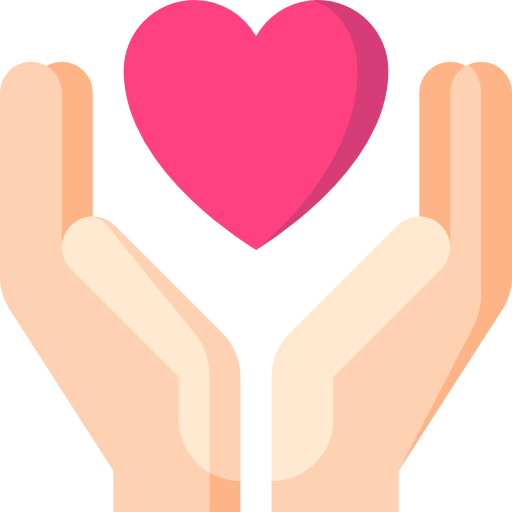
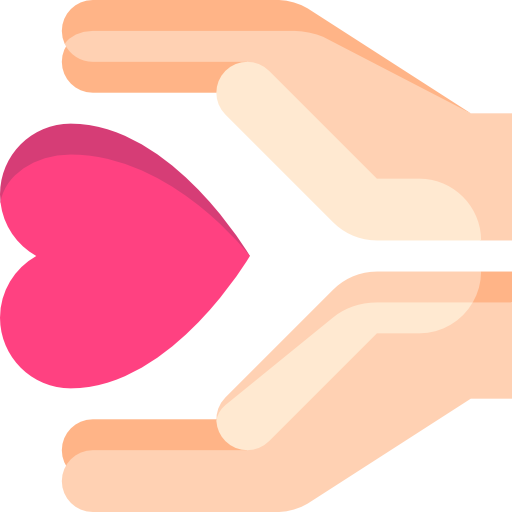
E03: added winning image in proper position, added rat movement towards the heart in the hands and changed winning text

diff --git a/exercices/exercise3.2/js/script.js b/exercices/exercise3.2/js/script.js
@@ -15,6 +15,12 @@ var targetX;
 var targetY;
 var targetImage;
 
+// velocity and size of the rat we're searching for after it is found
+var vX;
+var vY;
+var ratSize;
+
+
 //the surprise image at the end ;)
 var winningImage;
 
@@ -65,6 +71,8 @@ function setup() {
   createCanvas(windowWidth,windowHeight);
   background("#a8ad9a");
   imageMode(CENTER);
+  //ratSize is 72
+  ratSize=72;
 
   // Use a for loop to draw as many decoys as we need
   for (var i = 0; i < numDecoys; i++) {
@@ -134,22 +142,34 @@ function draw() {
   if (gameOver) {
     //clear background and redraw rat
     background('#a8ad9a');
-    image(targetImage, targetX, targetY,72,72);
+    //show the winning image
+    var winningImageSize = 256;
+    image(winningImage,windowWidth-winningImageSize/2,windowHeight/2,winningImageSize,winningImageSize);
+    //set variables for starting distance between rat and heart
+    var xDistance = windowWidth-200 - targetX;
+    var yDistance = windowHeight/2 - targetY;
+    //set velocity values - constrained so the speed is more constant
+    //also makes the movement less linear
+    vX = constrain(xDistance/40,-4,4);
+    vY = constrain(yDistance/40,-4,4);
+    //targetX and targetY values get progressively closer to the heart position
+    targetX += vX;
+    targetY += vY;
+    //rat gets bigger as it gets closer
+    if(ratSize<200){
+      ratSize += 2;
+    }
+    image(targetImage, targetX, targetY,ratSize,ratSize);
     //we show gameLegend again because it's covered by the background
     gameLegend();
     // Prepare our typography
     textFont("Agency FB");
     textSize(128);
     textAlign(CENTER,CENTER);
-    noStroke();
-    fill(random(255));
+    var colorRange = random(-30,30)
+    fill(200+colorRange,214+colorRange,160+colorRange);
     // Tell them they won!
-    text("YOU WINNED!",width/2,height/2);
-
-    noFill();
-    stroke(random(255));
-    strokeWeight(10);
-    ellipse(targetX,targetY,targetImage.width,targetImage.height);
+    text("YOU DID IT!",width/2,height/2);
   }
 }
 
